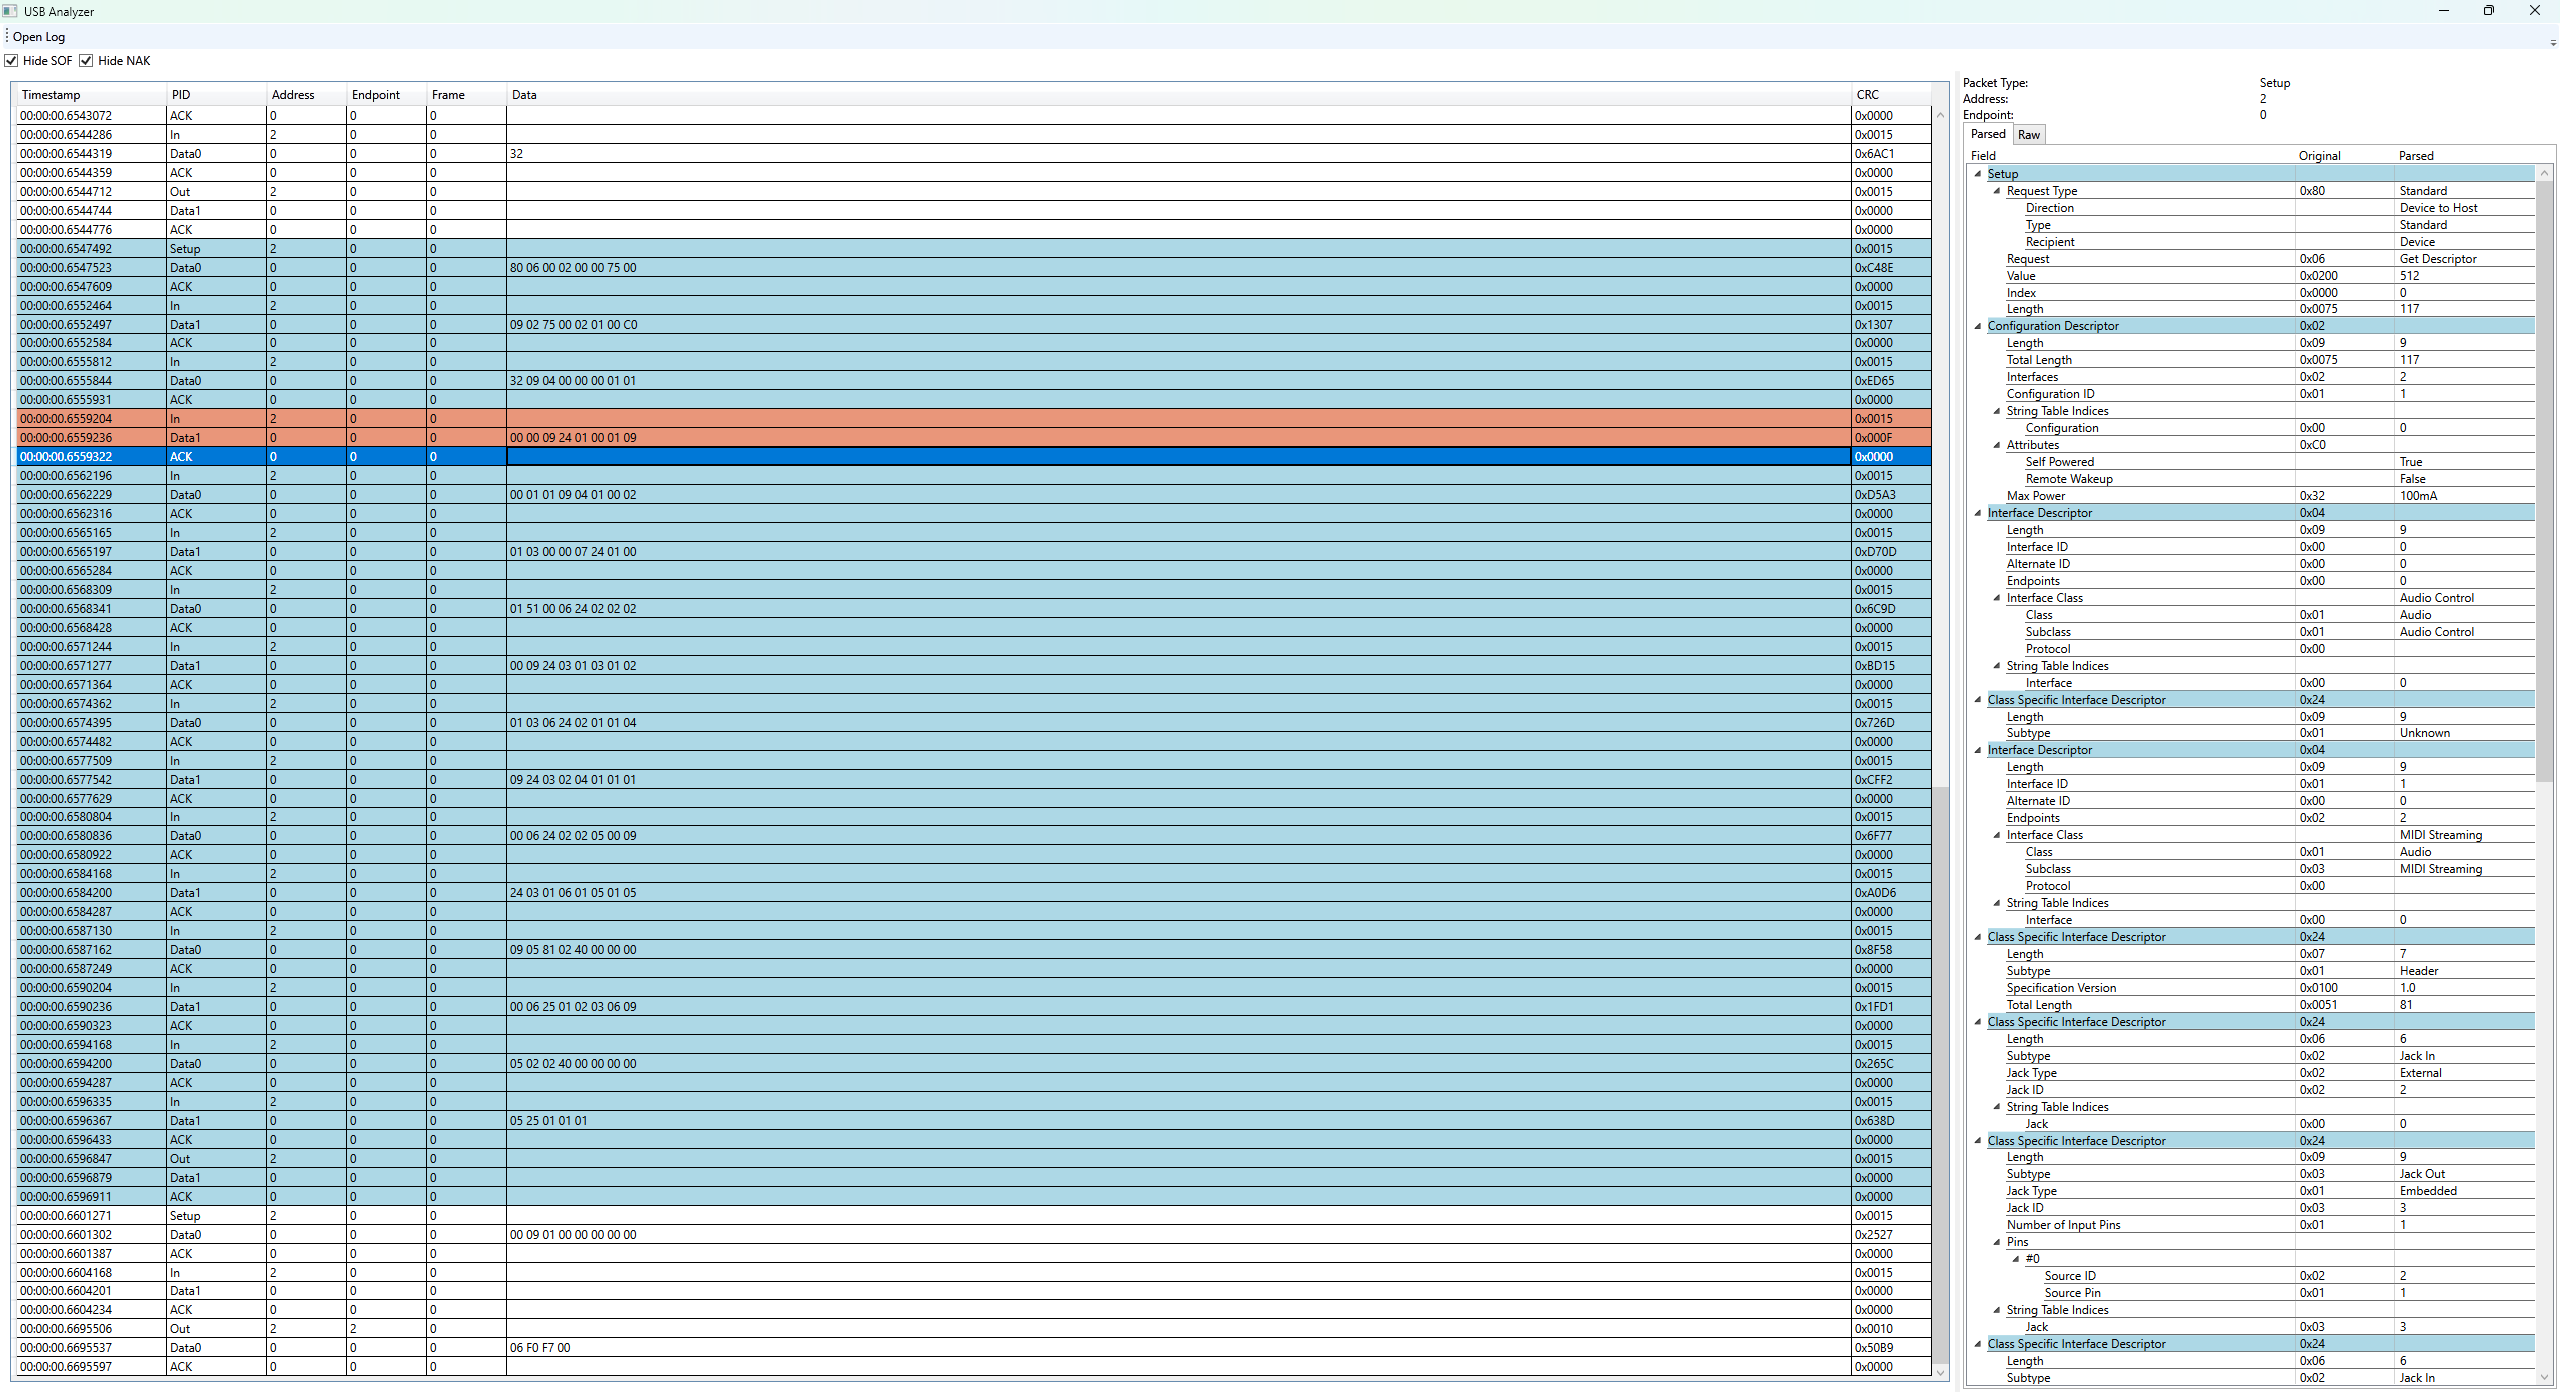
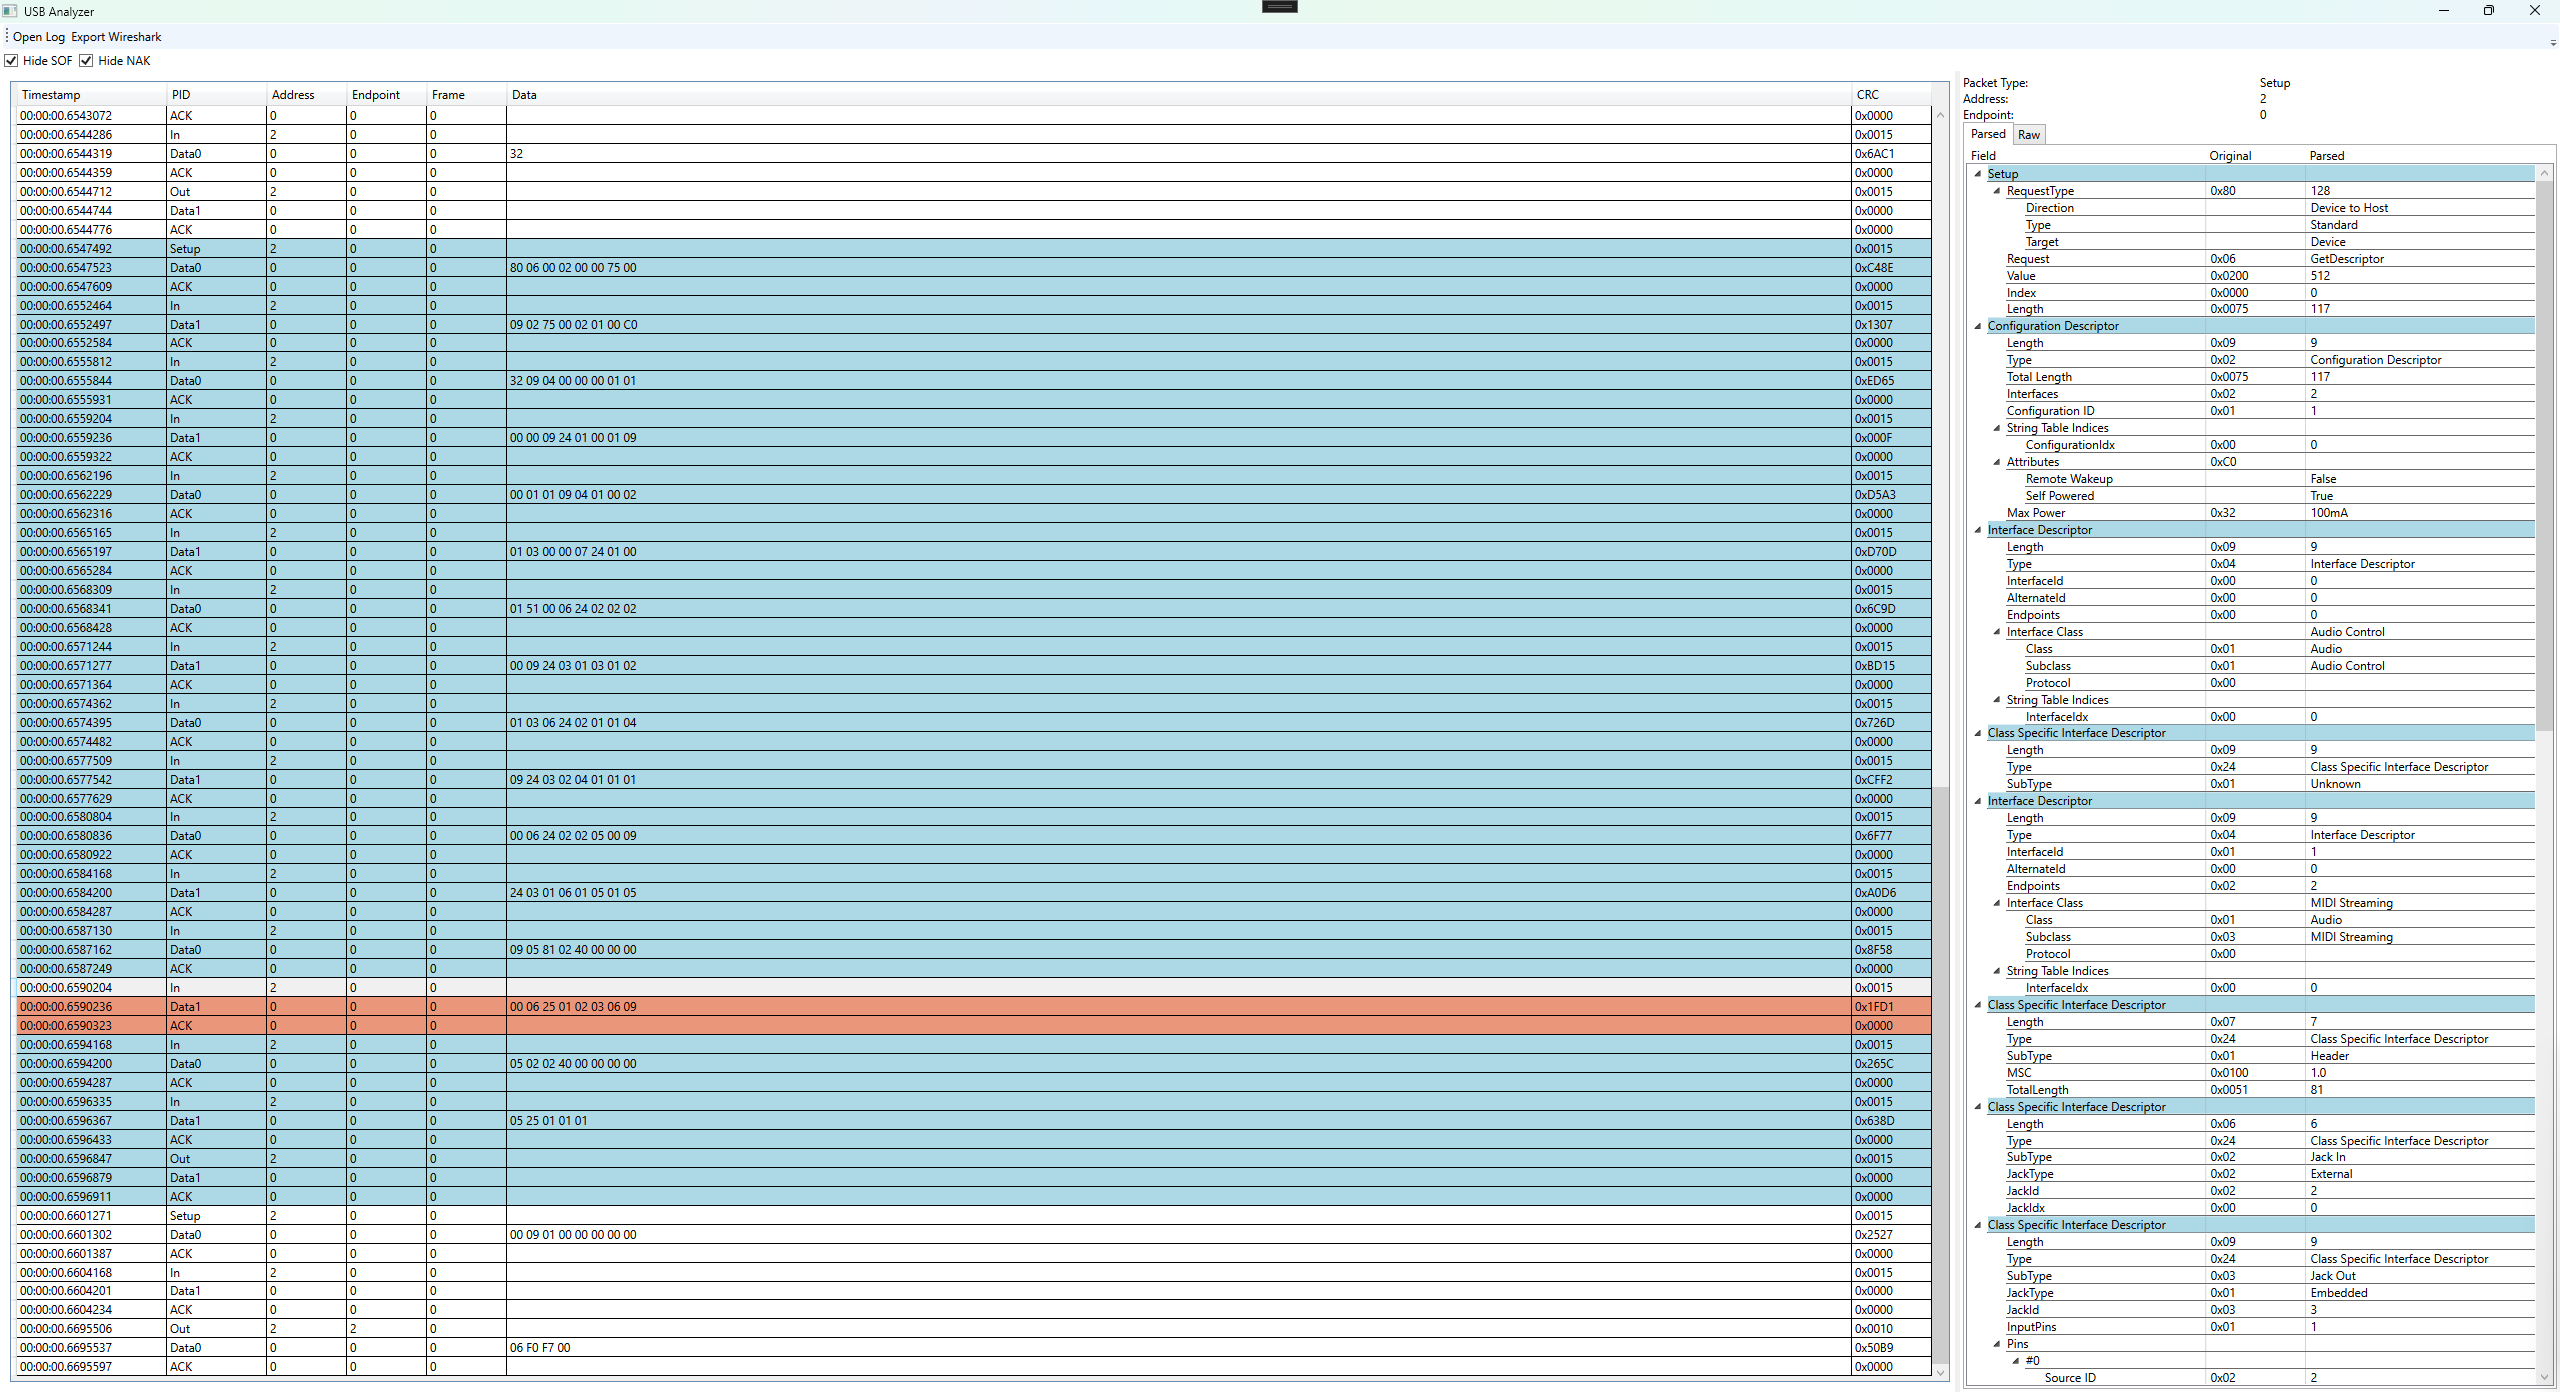
Updated readme

Changed region(s): [[0.0, 0.2471, 1.0, 1.0], [0.8438, 0.1236, 0.9688, 0.278], [0.0312, 0.0, 0.0625, 0.0309]]

diff --git a/README.md b/README.md
@@ -1,6 +1,9 @@
 # USB Analyzer
 A simple tool to analyze log files of USB captures. Intended to analyze captures with a logic analyzer, where you can't just use wireshark or other software to listen to the USB protocol. Currently it only supports log files generated by the KingstVIS-Analyzer, but the source format is easily expandable upon.
+
 ![](/Images/MainWindow.png)
+
+If you want a deeper analysis of the contents, you can also export the data to wireshark (Bulk & Interrupt only at the moment). In contrast to wireshark, this tool gives more of a low level look at the usb protocol, including e.g. SOF-Packages and every single transmission that results in a single bulk transfer, which helps with debugging the low level aspects of the protocol.
 
 Currently only USB 2.0 is supported and only Setup-Packets are parsed. Currently, only descriptors for MIDI, NCM and COM-Emulation using CDC are parsed.
 
